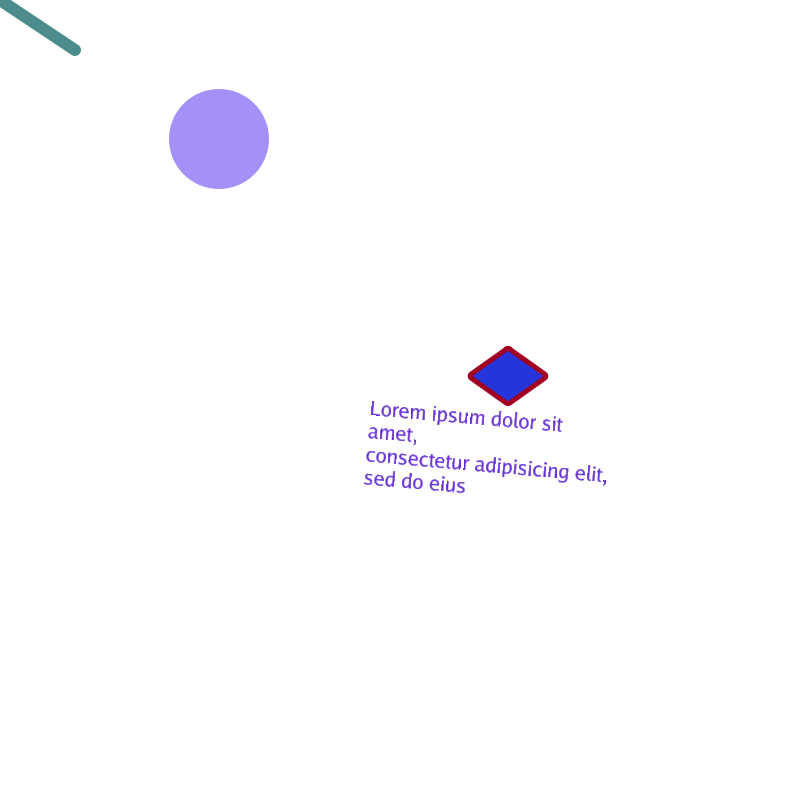
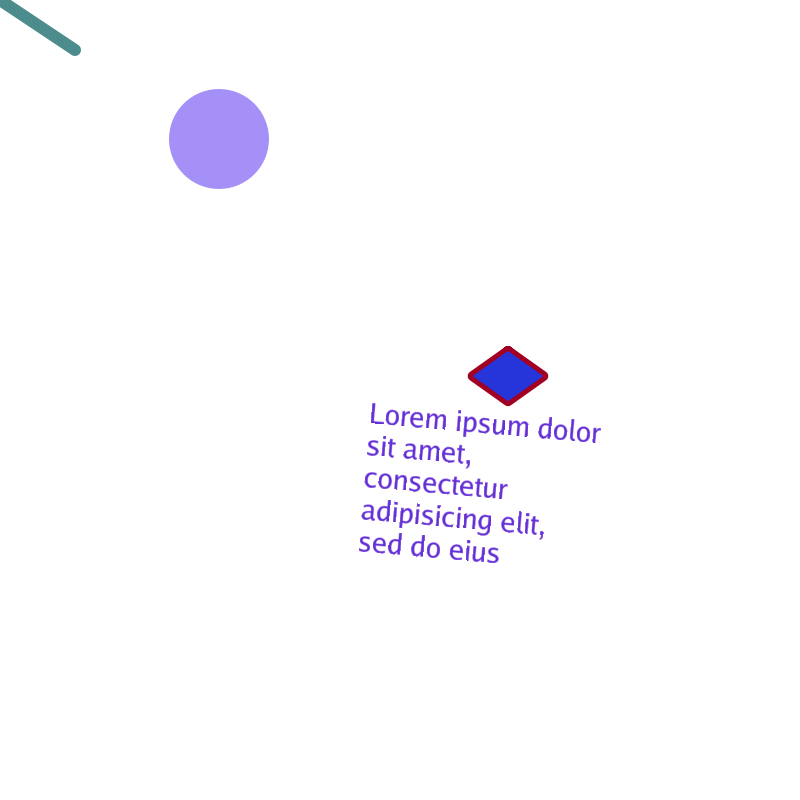
Fix test

Changed region(s): [[0.4375, 0.5, 0.75, 0.7188]]

diff --git a/src/fabricShape.go b/src/fabricShape.go
@@ -54,7 +54,7 @@ func (s *fabricShape) drawShapeType(ctx *gg.Context) {
 		break
 
 	case text:
-		fnt, err := loadFont(&truetype.Options{Size: s.FontSize})
+		fnt, err := loadFont(&truetype.Options{Size: s.FontSize, DPI: 100})
 		if err != nil {
 			fmt.Println(err.Error())
 			break
